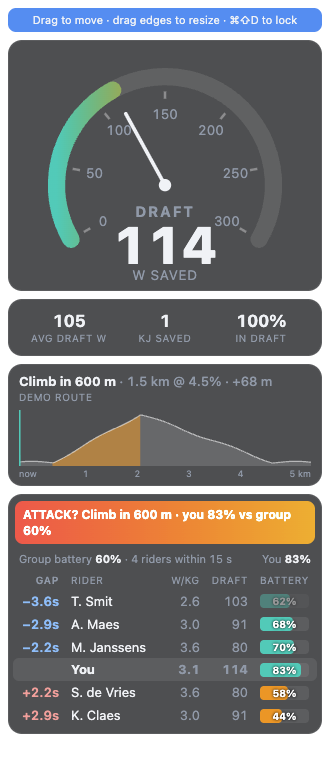
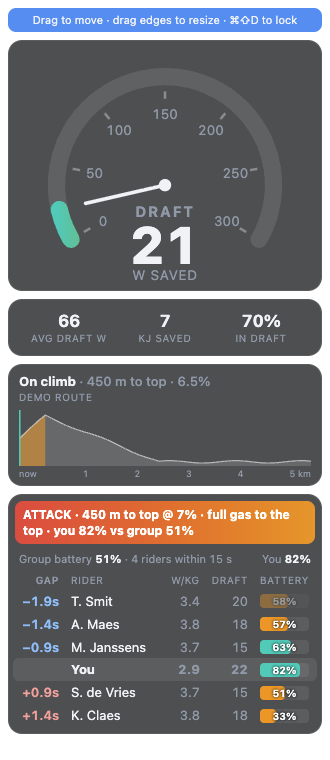
Research-based attack timing: move up before climbs, attack on steep parts, go over the top
Drafting saves ~25% on the flat but only ~2-12% on a climb (Zwift Insider tests),
so the old "attack 1 km before the climb" hint has been replaced (src/tactics.mjs):
- before a climb: "move up, sit in" instead of an attack
- attack only on steep sections (>= ~6%), when clearly fresher than the group and
  with enough W' to ride ~120% FTP to the top; punchy climbs (<= 1 km): last ~500 m,
  long climbs: final 40% (max 1.5 km)
- keep the power on over the crest and into the descent
- "wait" hints: too early, too shallow, or not enough battery yet (and from where)
Demo draft drops on climbs, help page and README explain the rules with sources.

diff --git a/ui/help.html b/ui/help.html
@@ -70,9 +70,20 @@
         <p><b>Group battery:</b> the average battery of the riders within 15 s of you (ahead and behind), shown with how many
             riders that is. Riders with a faded bar don't count yet, because we haven't watched them long enough. In a big bunch it
             can include riders that don't fit in the list.</p>
-        <p><b>ATTACK? banner:</b> shows when you have clearly more left than the group (you ≥ 55% and 15+ points above their average)
-            <i>and</i> a climb starts within 1 km, or the group is nearly empty. It's a nudge, not an order. The battery is a model:
-            Zwift FTPs can be outdated or set low on purpose.</p>
+        <p><b>Tactics banner</b>, based on how drafting works in Zwift: following a wheel saves ~25% on the flat but only
+            ~2–12% on a climb. So an attack on the flat lets the others follow cheaply; on a steep climb it sticks.</p>
+        <ul>
+            <li><span style="color:#93c5fd">Blue: before a climb</span>: <i>move up, sit in</i>. Start the climb near the front; don't attack yet.</li>
+            <li><span style="color:#fca5a5">Red ATTACK</span>: you're on a <b>steep</b> part (about 6%+) and clearly fresher than the group
+                (you ≥ 55% and 15+ points above their average, or they're below 35%), with enough battery to ride hard to the top.
+                <b>Short climbs (up to ~1 km):</b> in the last ~500 m, full gas to the top. <b>Long climbs:</b> only in the final part
+                (last 40%, at most 1.5 km), because early moves get reeled in.</li>
+            <li><span style="color:#fca5a5">Keep the power on over the top</span>: after an attack, don't ease off at the crest; hold it into
+                the first part of the descent while the others are still climbing.</li>
+            <li><span style="color:#93c5fd">Blue: wait</span>: a long climb that's too early, a climb too shallow to drop anyone, or not
+                enough battery yet (it tells you from where you can go).</li>
+        </ul>
+        <p class="muted">It's a nudge, not an order. The battery is a model: Zwift FTPs can be outdated or set low on purpose.</p>
     </div>
 
     <h2>Something not working?</h2>

diff --git a/ui/overlay.html b/ui/overlay.html
@@ -112,6 +112,9 @@
         animation: pulse 1.6s ease-in-out infinite;
     }
     @keyframes pulse { 50% { filter: brightness(1.25); } }
+    #attack.prepare, #attack.wait {
+        background: rgba(59,130,246,0.85); animation: none; font-weight: 600;
+    }
 
     /* Terrain */
     #terrain { padding: 8px 10px 6px; }
@@ -282,8 +285,9 @@ function renderNearby(snap) {
     // What the average covers: riders within 15 s, excluding faded ones (watched < 2 min).
     $('grpcount').textContent = g?.count ? `· ${g.count} rider${g.count === 1 ? '' : 's'} within 15 s` : '· nobody within 15 s yet';
     $('mybat').textContent = snap.me?.battery != null ? `${snap.me.battery}%` : '–';
-    $('attack').classList.toggle('hidden', !snap.attack);
-    $('attack').textContent = snap.attack ? `ATTACK? ${snap.attack.text}` : '';
+    const a = snap.attack;
+    $('attack').className = a ? a.kind : 'hidden';
+    $('attack').textContent = a ? a.text : '';
 }
 
 const km = m => m >= 1000 ? `${(m / 1000).toFixed(1)} km` : `${Math.round(m / 50) * 50} m`;

diff --git a/README.md b/README.md
@@ -13,7 +13,7 @@ Draftmeter is a small, free overlay that floats on top of Zwift, on a Mac or a W
 | ⏱ **Gaps** | Riders within 60 s, ahead and behind. In races, only your own category |
 | ⛰ **Climb ahead** | Elevation of the next 5 km: *Climb in 1.2 km · 1.5 km @ 4.5% · +68 m* |
 | 🔋 **Rivals' battery** | An estimate of how much "attack energy" each rider near you has left |
-| ⚡ **Attack hint** | A nudge when you're clearly fresher than the group and a climb is coming |
+| ⚡ **When to attack** | Move up before a climb, attack on the steep part, keep going over the top |
 
 > **Not made by or affiliated with Zwift.** See [Is this allowed?](#is-this-allowed) before you use it.
 
@@ -103,8 +103,20 @@ If the overlay hides behind a full-screen Zwift, switch Zwift to a windowed or b
   for under 2 minutes; `?` means their profile has no FTP.
 - **Group battery:** the average of the riders within 15 s of you (the count is shown next to it).
   Faded riders don't count yet, and in a big bunch it includes riders that don't fit in the list.
-- **ATTACK?** appears when you're at 55% or more, at least 15 points above the group's average, and
-  a climb starts within 1 km (or the group is nearly empty). It's a nudge, not an order.
+- **Tactics banner** (based on Zwift Insider's draft tests and Zwift's race guide; following a wheel saves
+  ~25% on the flat but only ~2–12% on a climb, so attacks stick on steep climbs, not on the run-in):
+  - 🔵 **Before a climb:** *move up, sit in*. Start near the front; don't attack on the flat.
+  - 🔴 **ATTACK:** only on a steep part (about 6%+), when you're clearly fresher than the group (≥ 55% and
+    15+ points above them, or they're below 35%) and have enough battery to ride hard to the top.
+    Short climbs (≤ ~1 km): the last ~500 m, full gas to the top. Long climbs: the final part (last 40%,
+    at most 1.5 km).
+  - 🔴 **Keep the power on over the top:** don't ease off at the crest; hold it into the descent.
+  - 🔵 **Wait:** too early on a long climb, too shallow to drop anyone, or not enough battery yet.
+  - Sources: [draft savings on climbs vs flats](https://zwiftinsider.com/draft-savings/),
+    [Zwift's Nov 2025 drafting update](https://zwiftinsider.com/drafting-update/),
+    [Zwift: hilly race tactics](https://www.zwift.com/news/27667-zwift-race-types-hilly-races),
+    [timing your attacks](https://zwiftinsider.com/timing-your-attacks),
+    [attacking punchy climbs](https://zwiftinsider.com/attacking-punchy-climbs-skillz-and-drillz/).
 
 **It's a model, not mind-reading.** Zwift profile FTPs can be outdated or set low on purpose, and
 everyone is assumed to have the same reserve. Use it to spot who has been suffering.
